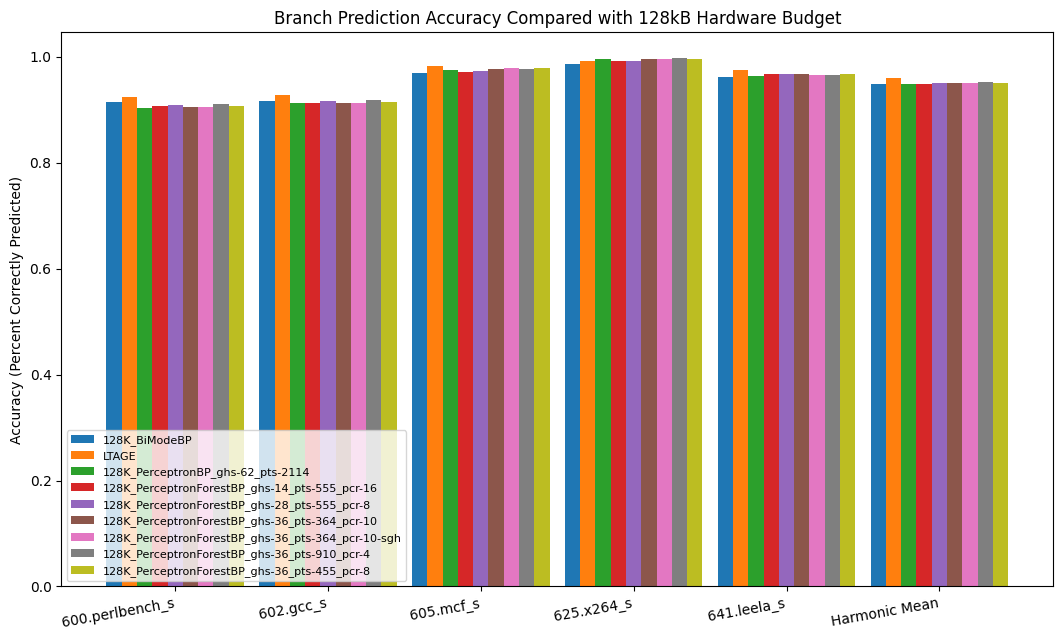
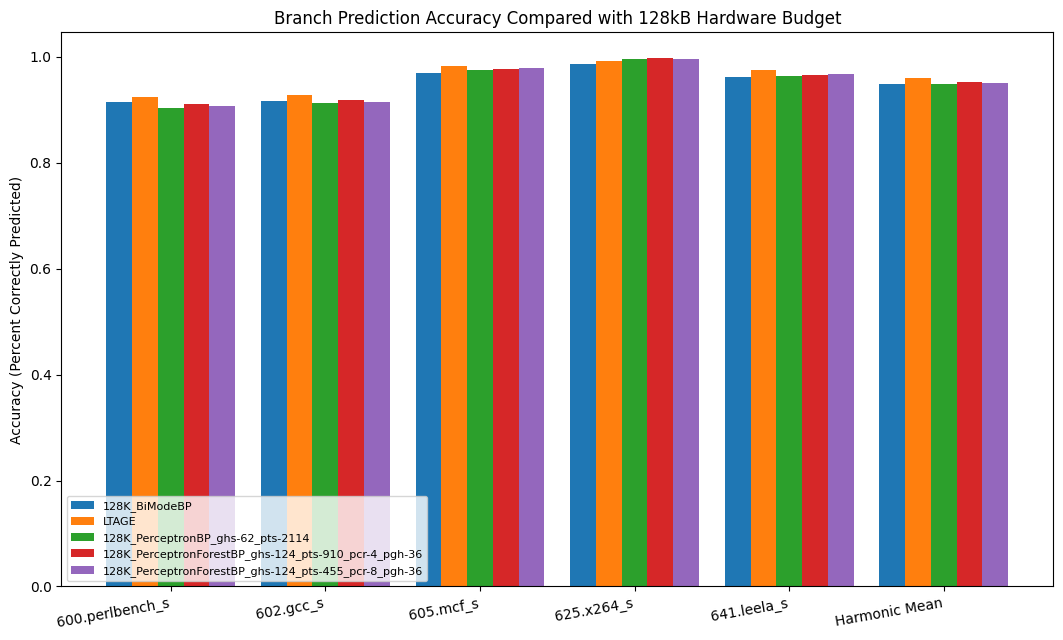
Plot PerceptronForest results

diff --git a/plots/plotForestCompare.py b/plots/plotForestCompare.py
@@ -29,12 +29,12 @@ benchmarks = ['600.perlbench_s', '602.gcc_s', '605.mcf_s', '625.x264_s', '641.le
 
 branch_predictors = ['128K_PerceptronForestBP_ghs-14_pts-555_pcr-16', '128K_PerceptronForestBP_ghs-28_pts-555_pcr-8', '128K_PerceptronForestBP_ghs-36_pts-364_pcr-10', '128K_PerceptronForestBP_ghs-36_pts-364_pcr-10-sgh', '128K_PerceptronForestBP_ghs-36_pts-910_pcr-4', '128K_PerceptronForestBP_ghs-36_pts-455_pcr-8']
 branch_labels = {
-    '128K_PerceptronForestBP_ghs-14_pts-555_pcr-16': 'PerceptronBP 4bit Weights',
-    '128K_PerceptronForestBP_ghs-28_pts-555_pcr-8': 'PerceptronBP 8bit Weights',
-    '128K_PerceptronForestBP_ghs-36_pts-364_pcr-10': 'PerceptronBP 32bit Weights',
-    '128K_PerceptronForestBP_ghs-36_pts-364_pcr-10-sgh': 'PerceptronBP 32bit Weights',
-    '128K_PerceptronForestBP_ghs-36_pts-910_pcr-4': 'PerceptronBP 32bit Weights',
-    '128K_PerceptronForestBP_ghs-36_pts-455_pcr-8': 'PerceptronBP 32bit Weights'
+    '128K_PerceptronForestBP_ghs-14_pts-555_pcr-16': '16 Perpceptrons, 14 GH each, 62 GH total, 555 Table Entries',
+    '128K_PerceptronForestBP_ghs-28_pts-555_pcr-8': '8 Perpceptrons, 28 GH each, 124 GH total, 555 Table Entries',
+    '128K_PerceptronForestBP_ghs-36_pts-364_pcr-10': '10 Perpceptrons, 36 GH each, 180 GH total, 364 Table Entries',
+    '128K_PerceptronForestBP_ghs-36_pts-364_pcr-10-sgh': '10 Perpceptrons, 36 GH each, 62 GH total, 364 Table Entries',
+    '128K_PerceptronForestBP_ghs-36_pts-910_pcr-4': '4 Perpceptrons, 36 GH each, 124 GH total, 910 Table Entries',
+    '128K_PerceptronForestBP_ghs-36_pts-455_pcr-8': '8 Perpceptrons, 36 GH each, 124 GH total, 455 Table Entries'
 }
 
 rows = []
@@ -73,7 +73,7 @@ def plot_stat(stat, title, ylabel, image_name, *args, **kwargs):
         info = df[bp == df['predictor']][stat]
         harmonic_mean = len(info) / np.sum(1 / info)
         info = pd.concat([info, pd.Series(harmonic_mean)])
-        plt.bar(start_point + i*width, info, width=width, label=bp)
+        plt.bar(start_point + i*width, info, width=width, label=branch_labels[bp])
 
     plt.xticks(start_point+(len(branch_predictors)//2)*width, benchmarks+['Harmonic Mean'], rotation=10, ha='right')
     plt.legend(loc='lower left', prop={'size': 8})
@@ -85,10 +85,8 @@ def plot_stat(stat, title, ylabel, image_name, *args, **kwargs):
     plt.savefig("plots/figures/{image_name}".format(image_name=image_name), bbox_inches='tight')
     plt.clf()
 
-plot_stat(stat="accuracy", title="Branch Prediction Accuracy Compared with 128kB Hardware Budget", ylabel="Accuracy (Percent Correctly Predicted)", image_name='128K_Compare_accuracy.png')
+plot_stat(stat="missRate", title="Branch Prediction Miss Rate vs. PerceptronForest 128kB Configs", ylabel="Percent Mispredicted", image_name='PF_Compare_missrate.png', yticks=np.arange(0, 0.11, 0.01))
 
-plot_stat(stat="missRate", title="Branch Prediction Miss Rate Compared with 128kB Hardware Budget", ylabel="Percent Mispredicted", image_name='128K_Compare_missrate.png', yticks=np.arange(0, 0.11, 0.01))
-
-plot_stat(stat="ipc", title="Branch Prediction IPC Compared with 128kB Hardware Budget", ylabel="IPC", image_name='128K_Compare_ipc.png', yticks=np.arange(0, 1.7, 0.2))
+plot_stat(stat="ipc", title="Branch Prediction IPC vs. PerceptronForest 128kB Configs", ylabel="IPC", image_name='PF_Compare_ipc.png', yticks=np.arange(0, 1.7, 0.2))
 
 

diff --git a/plots/plot128k.py b/plots/plot128k.py
@@ -27,8 +27,14 @@ all_gem5_cpus = ['DerivO3CPU']
 
 benchmarks = ['600.perlbench_s', '602.gcc_s', '605.mcf_s', '625.x264_s', '641.leela_s']
 
-branch_predictors = ['128K_BiModeBP', 'LTAGE', '128K_PerceptronBP_ghs-62_pts-2114', '128K_PerceptronForestBP_ghs-14_pts-555_pcr-16', '128K_PerceptronForestBP_ghs-28_pts-555_pcr-8', '128K_PerceptronForestBP_ghs-36_pts-364_pcr-10', '128K_PerceptronForestBP_ghs-36_pts-364_pcr-10-sgh', '128K_PerceptronForestBP_ghs-36_pts-910_pcr-4', '128K_PerceptronForestBP_ghs-36_pts-455_pcr-8']
-
+branch_predictors = ['128K_BiModeBP', 'LTAGE', '128K_PerceptronBP_ghs-62_pts-2114', '128K_PerceptronForestBP_ghs-36_pts-910_pcr-4', '128K_PerceptronForestBP_ghs-36_pts-455_pcr-8']
+branch_labels = {
+    '128K_BiModeBP': '128K_BiModeBP', 
+    'LTAGE': 'LTAGE', 
+    '128K_PerceptronBP_ghs-62_pts-2114': '128K_PerceptronBP_ghs-62_pts-2114', 
+    '128K_PerceptronForestBP_ghs-36_pts-910_pcr-4': '128K_PerceptronForestBP_ghs-124_pts-910_pcr-4_pgh-36', 
+    '128K_PerceptronForestBP_ghs-36_pts-455_pcr-8': '128K_PerceptronForestBP_ghs-124_pts-455_pcr-8_pgh-36'
+    }
 
 rows = []
 for bm in benchmarks: 
@@ -66,7 +72,7 @@ def plot_stat(stat, title, ylabel, image_name, *args, **kwargs):
         info = df[bp == df['predictor']][stat]
         harmonic_mean = len(info) / np.sum(1 / info)
         info = pd.concat([info, pd.Series(harmonic_mean)])
-        plt.bar(start_point + i*width, info, width=width, label=bp)
+        plt.bar(start_point + i*width, info, width=width, label=branch_labels[bp])
 
     plt.xticks(start_point+(len(branch_predictors)//2)*width, benchmarks+['Harmonic Mean'], rotation=10, ha='right')
     plt.legend(loc='lower left', prop={'size': 8})
